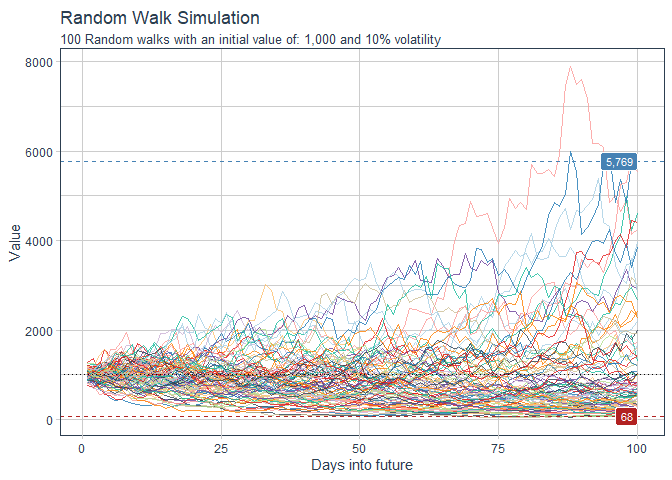
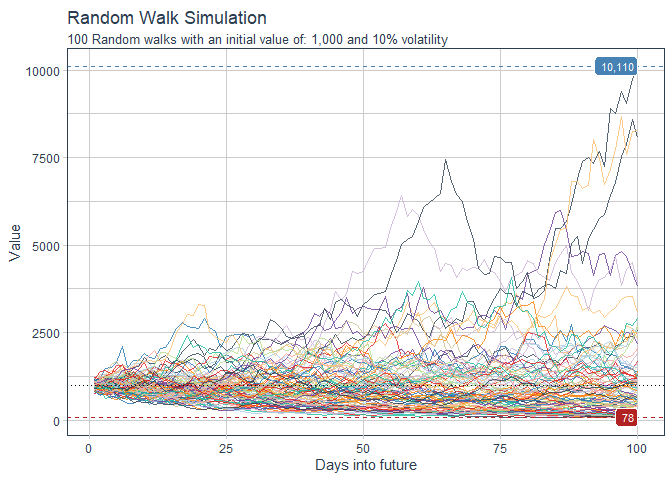
prep for CRAN

Changed region(s): [[0.0312, 0.1875, 1.0, 1.0], [0.0938, 0.0, 0.6875, 0.0938], [0.0312, 0.0938, 1.0, 0.1562]]

diff --git a/README.md b/README.md
@@ -47,14 +47,14 @@ df <- ts_random_walk()
 
 head(df)
 #> # A tibble: 6 x 4
-#>     run     x        y cum_y
-#>   <dbl> <dbl>    <dbl> <dbl>
-#> 1     1     1 -0.00730  993.
-#> 2     1     2 -0.0718   921.
-#> 3     1     3 -0.0763   851.
-#> 4     1     4 -0.0747   787.
-#> 5     1     5 -0.218    616.
-#> 6     1     6 -0.0456   588.
+#>     run     x       y cum_y
+#>   <dbl> <dbl>   <dbl> <dbl>
+#> 1     1     1 -0.0613  939.
+#> 2     1     2  0.0540  989.
+#> 3     1     3  0.0460 1035.
+#> 4     1     4  0.0718 1109.
+#> 5     1     5  0.0215 1133.
+#> 6     1     6  0.120  1269.
 ```
 
 Now that the data has been generated, lets take a look at it.
